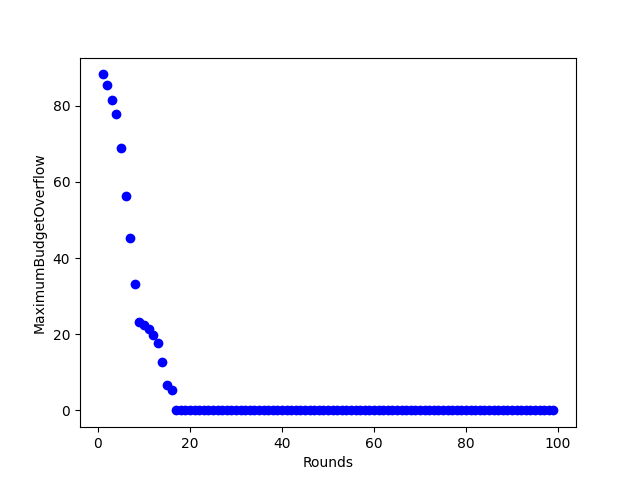
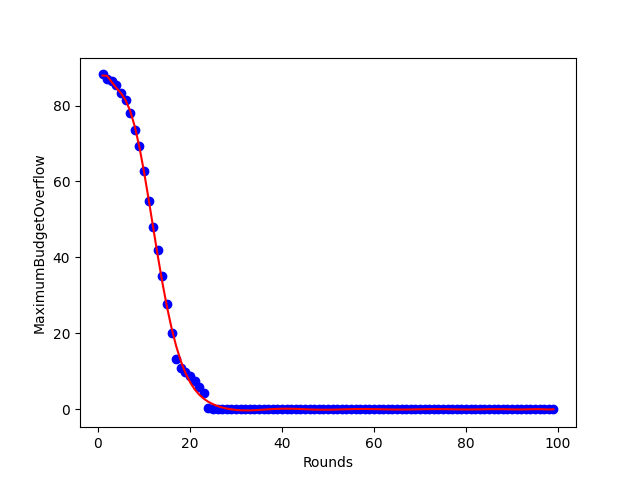
changes

diff --git a/Synthetic Instances/graph.py b/Synthetic Instances/graph.py
@@ -10,7 +10,7 @@ import matplotlib.pyplot as plt
 from advertiser import Advertiser
 from impression import Impression
 
-def graphObjandTimeVsImps(objArr, timeArr, numImps):
+def graphObjandTimeVsImps(objArr, timeArr, numImpsArr):
     figure, axis = plt.subplots(1, 2)
     objArrCVX, objArrAlg1, objArrAlg2, timeArrCVX, timeArrAlg1, timeArrAlg2 = [], [], [], [], [], []
     
@@ -24,28 +24,28 @@ def graphObjandTimeVsImps(objArr, timeArr, numImps):
         timeArrAlg1.append(timeArr[i][0])
         timeArrAlg2.append(timeArr[i][1])
  
-    # objModelCVX = np.poly1d(np.polyfit(numImps, objArrCVX, 3))
-    objModelAlg1= np.poly1d(np.polyfit(numImps, objArrAlg1, 3))
-    objModelAlg2 = np.poly1d(np.polyfit(numImps, objArrAlg2, 3))
+    # objModelCVX = np.poly1d(np.polyfit(numImpsArr, objArrCVX, 3))
+    objModelAlg1= np.poly1d(np.polyfit(numImpsArr, objArrAlg1, 3))
+    objModelAlg2 = np.poly1d(np.polyfit(numImpsArr, objArrAlg2, 3))
 
-    # timeModelCVX = np.poly1d(np.polyfit(numImps, timeArrCVX, 2))
-    timeModelAlg1 = np.poly1d(np.polyfit(numImps, timeArrAlg1, 2))
-    timeModelAlg2 = np.poly1d(np.polyfit(numImps, timeArrAlg2, 2))
+    # timeModelCVX = np.poly1d(np.polyfit(numImpsArr, timeArrCVX, 2))
+    timeModelAlg1 = np.poly1d(np.polyfit(numImpsArr, timeArrAlg1, 2))
+    timeModelAlg2 = np.poly1d(np.polyfit(numImpsArr, timeArrAlg2, 2))
 
     # Plot Data
-    # axis[0].scatter(numImps, objArrCVX, c='red', label='CVXOPT')
-    axis[0].scatter(numImps, objArrAlg1, c='green', label='Algorithm 1')
-    axis[0].scatter(numImps, objArrAlg2, c='blue', label='Algorithm 2')
-    # axis[1].scatter(numImps, timeArrCVX, c='red', label='CVXOPT')
-    axis[1].scatter(numImps, timeArrAlg1, c='green', label='Alg 1')
-    axis[1].scatter(numImps, timeArrAlg2, c='blue',label='Alg 2')
+    # axis[0].scatter(numImpsArr, objArrCVX, c='red', label='CVXOPT')
+    # axis[0].scatter(numImpsArr, objArrAlg1, c='green', label='Algorithm 1')
+    # axis[0].scatter(numImpsArr, objArrAlg2, c='blue', label='Algorithm 2')
+    # axis[1].scatter(numImpsArr, timeArrCVX, c='red', label='CVXOPT')
+    # axis[1].scatter(numImpsArr, timeArrAlg1, c='green', label='Algorithm 1')
+    # axis[1].scatter(numImpsArr, timeArrAlg2, c='blue',label='Algorithm 2')
 
-    # axis[0].plot(numImps, objModelCVX(numImps), color='red')
-    axis[0].plot(numImps, objModelAlg1(numImps), color='green')
-    axis[0].plot(numImps, objModelAlg2(numImps), color='blue')
-    # axis[1].plot(numImps, timeModelCVX(numImps), color='red')
-    axis[1].plot(numImps, timeModelAlg1(numImps), color='green')
-    axis[1].plot(numImps, timeModelAlg2(numImps), color='blue')
+    # axis[0].plot(numImpsArr, objModelCVX(numImpsArr), color='red')
+    axis[0].plot(numImpsArr, objArrAlg1, color='green')
+    axis[0].plot(numImpsArr, objArrAlg2, color='blue')
+    # axis[1].plot(numImpsArr, timeModelCVX(numImpsArr), color='red')
+    axis[1].plot(numImpsArr, timeArrAlg1, color='green')
+    axis[1].plot(numImpsArr, timeArrAlg2, color='blue')
 
     # Labels
     axis[0].set_xlabel('Number of Impressions')
@@ -57,7 +57,7 @@ def graphObjandTimeVsImps(objArr, timeArr, numImps):
     plt.tight_layout()
     # Save and Clear
 
-    plt.savefig('/Users/forev/rise-interns-aene/Images/ObjTimeVsImps.png')
+    plt.savefig('/Users/aravchadha/Documents/GitHub/rise-interns-aene/Images/ObjTimeVsImps.png')
     plt.cla()
     plt.clf()
     plt.close()
@@ -78,7 +78,7 @@ def graph(x, y, xlabel, ylabel):
     plt.plot(x, bestModel(x), color='red')
     plt.xlabel(xlabel)
     plt.ylabel(ylabel)
-    plt.savefig('/Users/forev/rise-interns-aene/Images/' + xlabel + 'Vs' + ylabel + '.png')
+    plt.savefig('/Users/aravchadha/Documents/GitHub/rise-interns-aene/Images/' + xlabel + 'Vs' + ylabel + '.png')
     plt.cla()
     plt.clf()
     plt.close()

diff --git a/synthetic instances/main.py b/synthetic instances/main.py
@@ -40,10 +40,9 @@ def main():
     optTimeArr, alg1TimeArr, alg2TimeArr = [], [], []
     optObjArr, alg1ObjArr, alg2ObjArr = [], [], []
     numImpsArr = []
-    for count in range(20):
-        numImps = random.randint(100,1000)
-        numImpsArr.append(numImps)
-        a, i = createSyntheticInstance(50,numImps) # fixed 10 advs, rand 1-100 imps
+    for count in range(100):
+        numImps = count * 10
+        a, i = createSyntheticInstance(50, numImps) # fixed 10 advs, rand 1-100 imps
         weights = optimal.createVectorC(a,i)
         # Optimal Algorithm
         # optSolved, optTimeTaken = (optimal.lpSolve(a,i))
@@ -62,7 +61,7 @@ def main():
         print("Alg1 Objective Value:", alg1Obj)
         print("Time Taken:", alg1TimeTaken)
         # Algorithm 2
-        alg2Solved, alg2TimeTaken, maxOverflow = alg2.solve(a,i,weights,0.5,0.9,10) # lam = 0.1, eps = 1, numRounds = 20
+        alg2Solved, alg2TimeTaken, maxOverflow = alg2.solve(a,i,weights,0.25,0.21,50) # lam = 0.25, eps = 0.21, numRounds = 50
         alg2Obj = objectiveValue(alg2Solved, weights)
         alg2solvedArr.append(alg2Solved)
         alg2TimeArr.append(alg2TimeTaken)
@@ -78,7 +77,7 @@ def main():
     numImpsArr.sort()
     sortedImpsObjVal = [impsObjVal[i] for i in numImpsArr]
     sortedImpsTime = [impsTime[i] for i in numImpsArr]
-    graph.graphObjandTimeVsImps(objArr, timeArr, numImpsArr)
+    graph.graphObjandTimeVsImps(sortedImpsObjVal, sortedImpsTime, numImpsArr)
 
 def test():
     a, i = createSyntheticInstance(50,1000, 1)
@@ -87,7 +86,7 @@ def test():
 
     for rounds in range (1,100):
         print("Rounds:", rounds)
-        alg2Solved, alg2TimeTaken, maxOverflow = alg2.solve(a,i,weights,0.25,0.435,rounds)
+        alg2Solved, alg2TimeTaken, maxOverflow = alg2.solve(a,i,weights,0.25,0.21,rounds)
         alg2Obj = objectiveValue(alg2Solved, weights)
         roundsArr.append(rounds)
         maxOverflowArr.append(maxOverflow)
@@ -156,9 +155,9 @@ def tuneEpsLam():
     plt.title('Objective Value Heatmap')
     plt.show()
 
-# main()
+main()
 # test()
-tuneEpsLam() # lam = 0.25, eps = 0.435
+# tuneEpsLam() # lam = 0.25, eps = 0.435
 
 # make heat map for eps vs lam testing - pick 5 synthetic instances of same size and find avg of obj on each
 # sort dictionary and implement best fit lines
@@ -167,3 +166,8 @@ tuneEpsLam() # lam = 0.25, eps = 0.435
 # End Goal: find tuned params for eps/lam and then test on larger and corrupted instances
 
 # New parameter tuning for eps and lam using more rounds and less jumps
+
+# use big datasets
+# transition to latex
+# difference plot
+# run cvxopt vs algs on smaller instances (cor and not)

diff --git a/synthetic instances/advertiser.py b/synthetic instances/advertiser.py
@@ -36,7 +36,9 @@ class Advertiser:
     def returnImpressions(self):
         return self.impressions
     
-
-    
-    
-    
+# Ways to corrupt instances:
+   
+# Randomly multiply/divide valuations by 100
+# Remove random edges
+# Coin flip between exponential and uniform distribution (or any other distribution)
+# Randomly change random.expovariate(1) to random.expovariate(10 or 100)

diff --git a/synthetic instances/optimal.py b/synthetic instances/optimal.py
@@ -1,3 +1,4 @@
+import random
 import numpy as np
 import time
 from cvxopt import matrix, solvers
